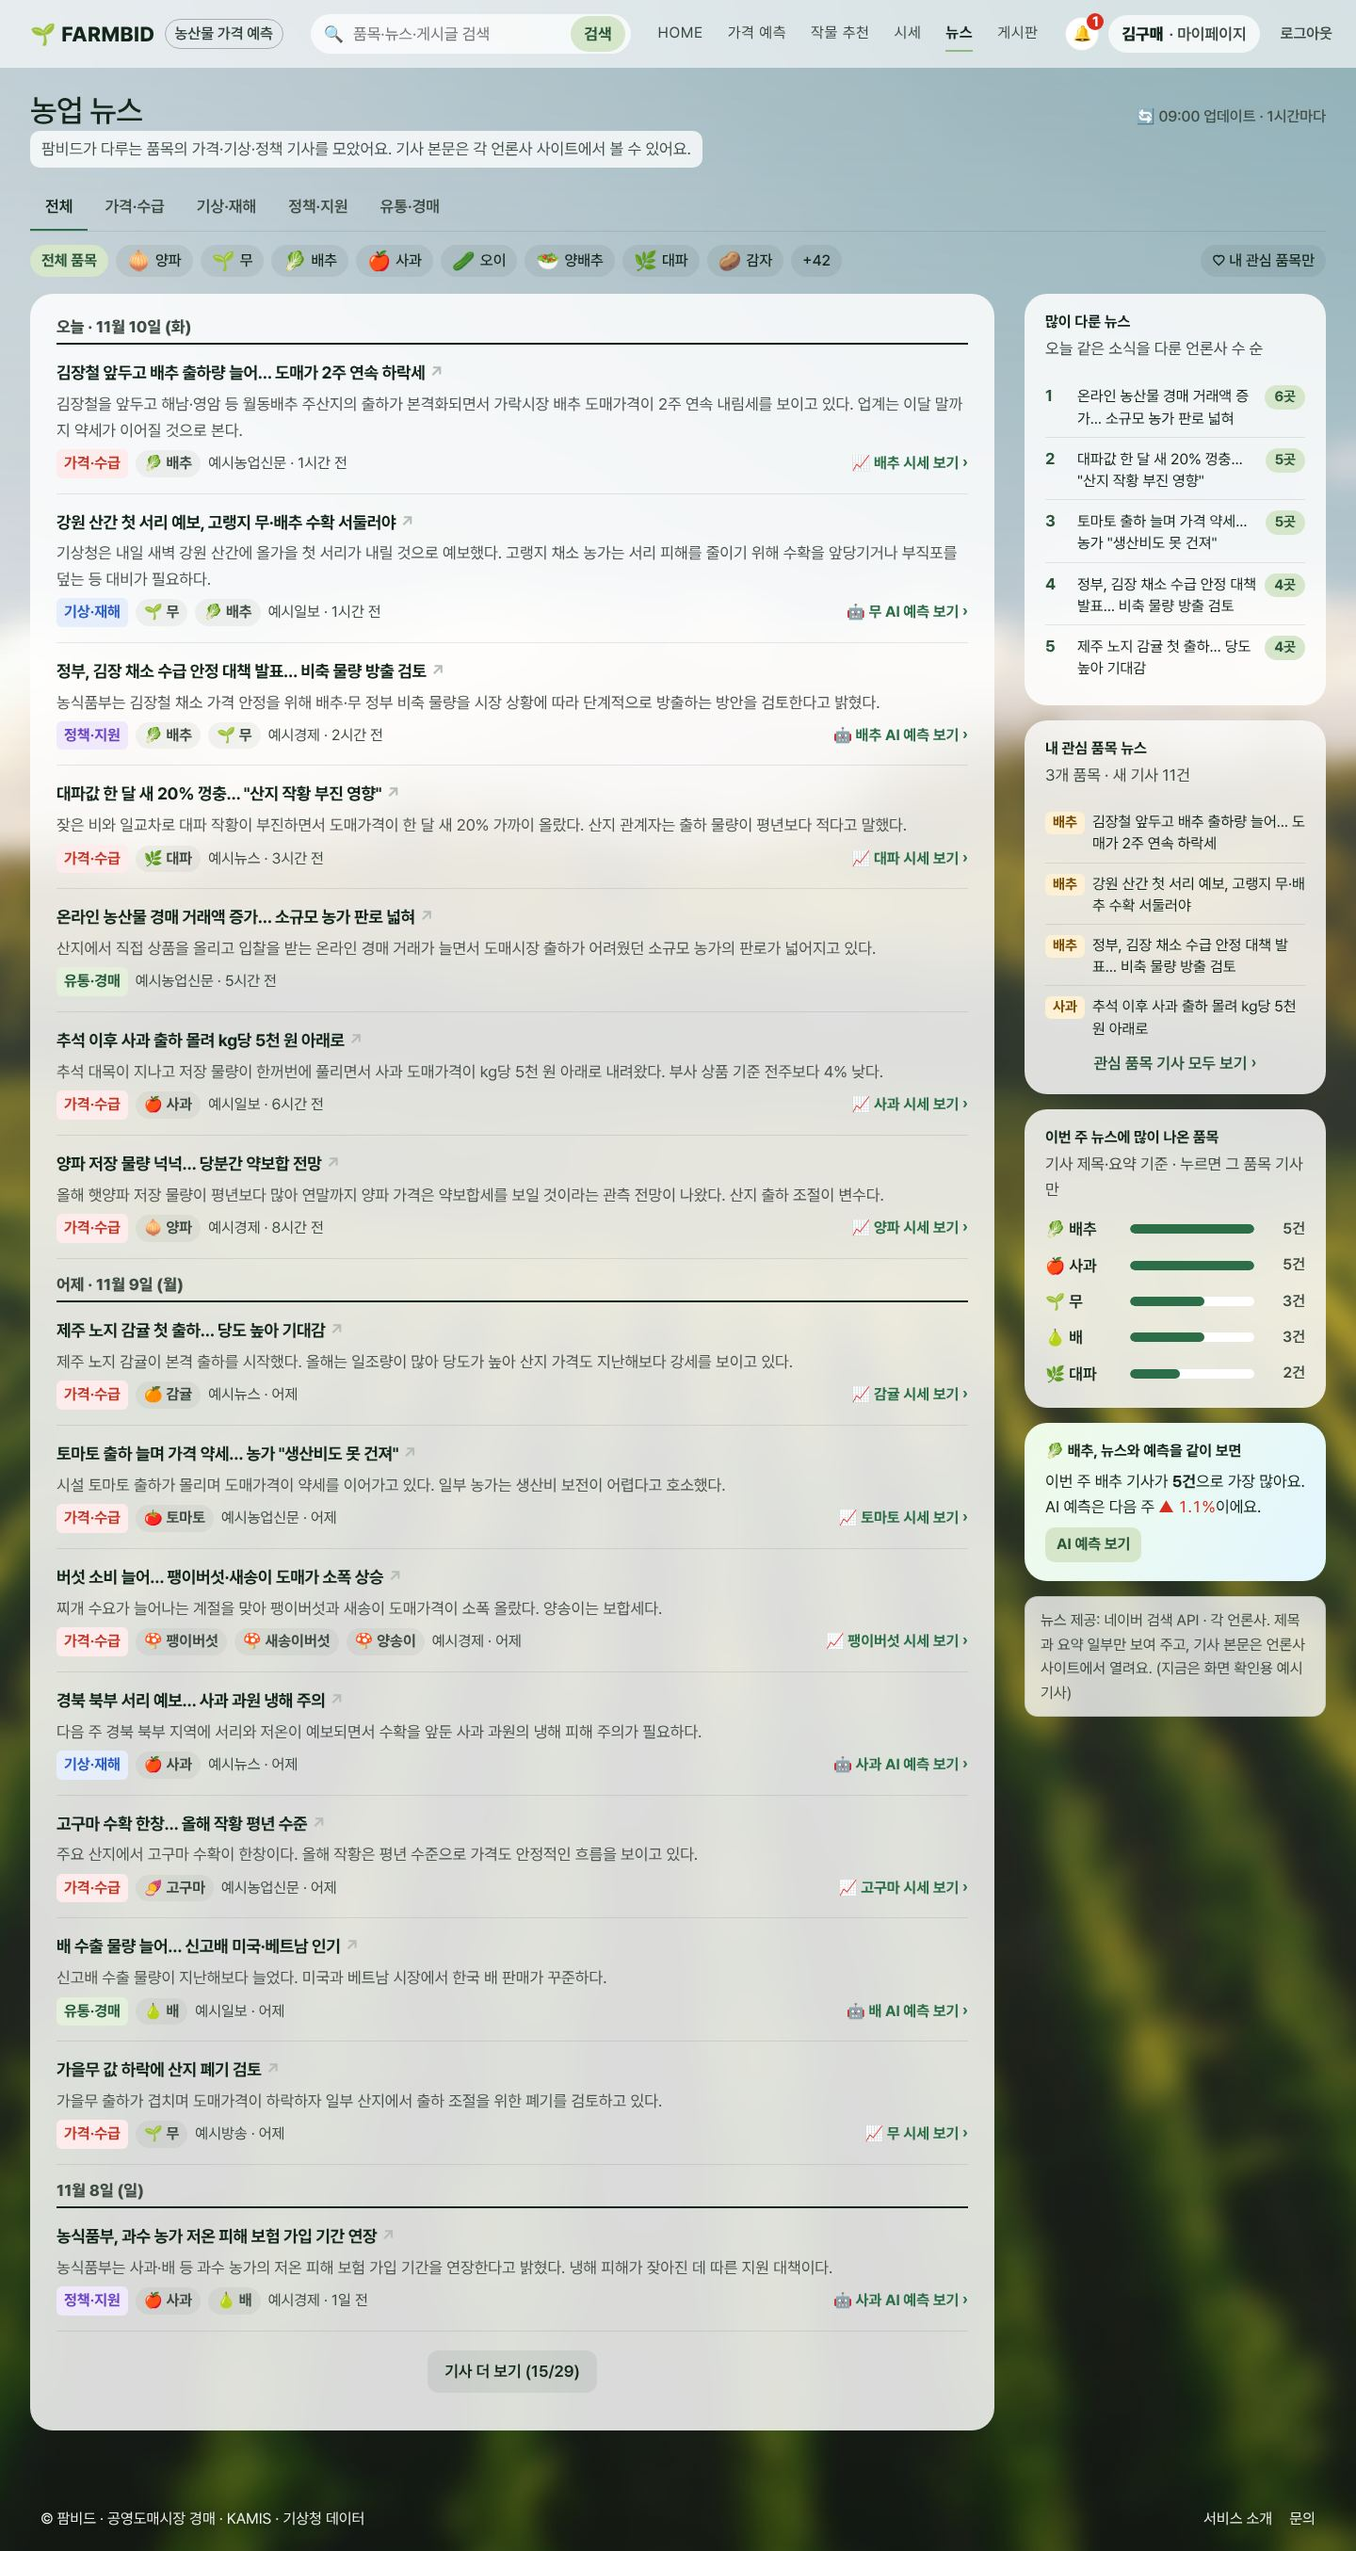
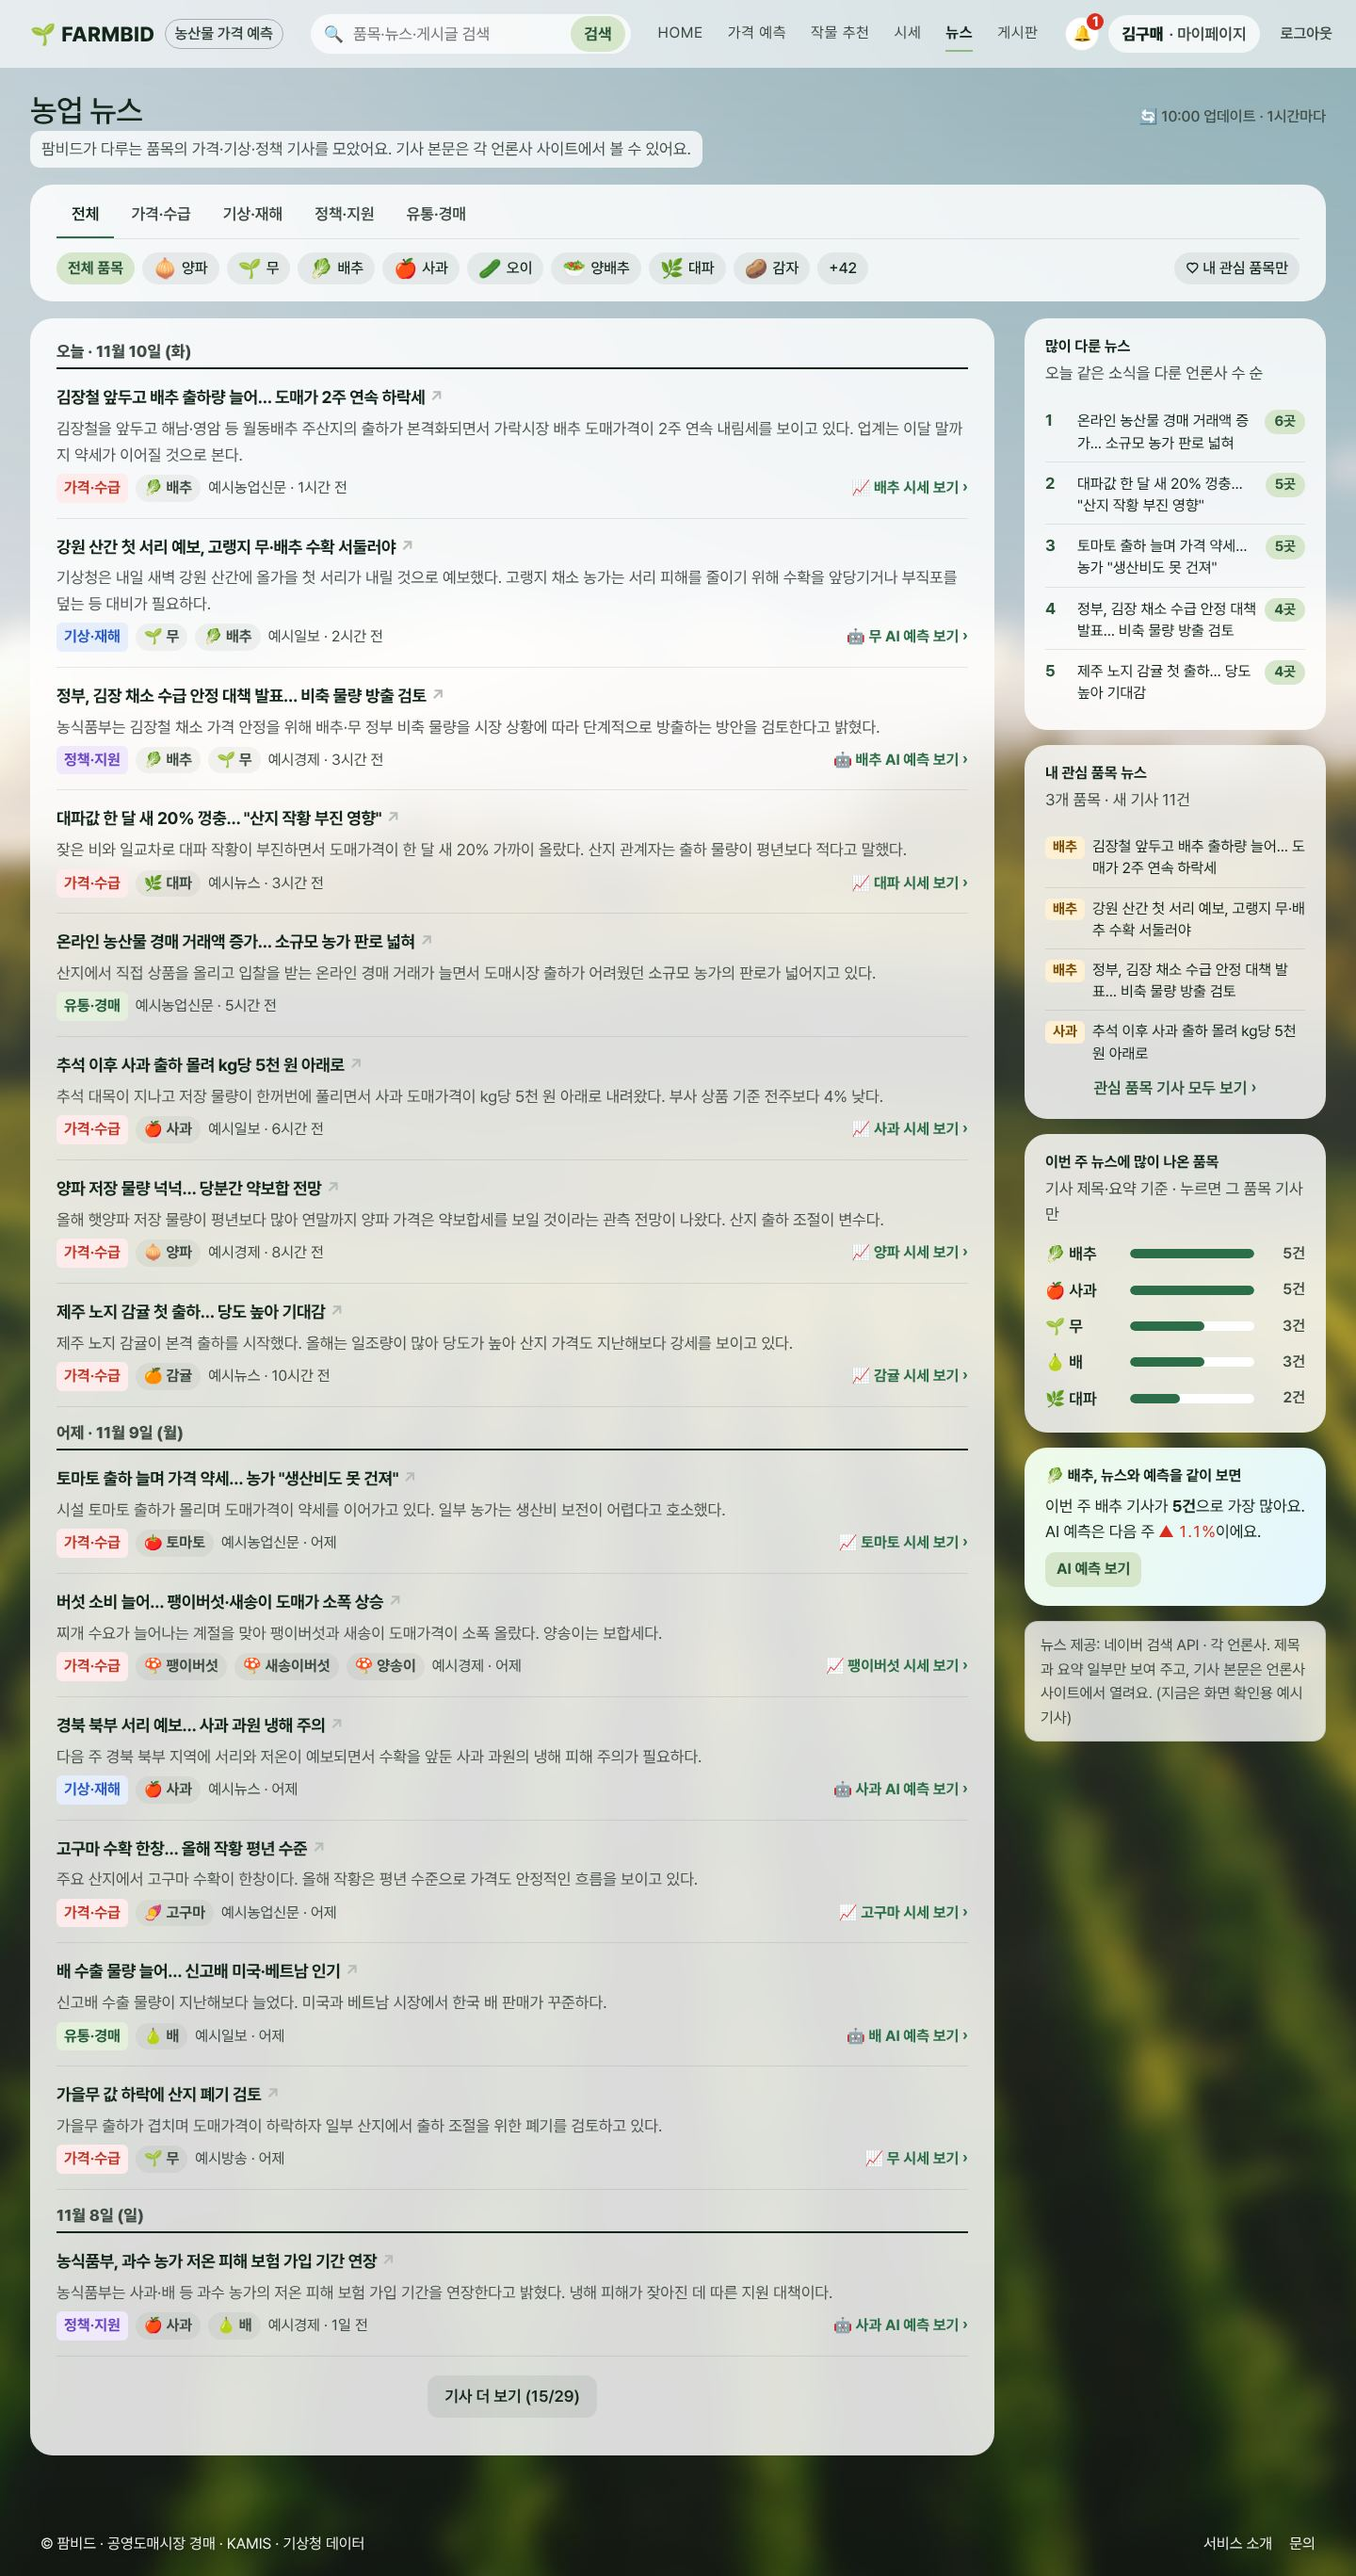
fix(frontend): 시세 조건 칸·반입 동향 요약·뉴스 분류 칸을 흰 유리 판 위에 — 사진 위에 투명하게 떠 안 읽히던 것
Claude-Session: https://claude.ai/code/session_01A5Bz2YFgwDEj3wEsMnATng

diff --git a/frontend/src/theme.css b/frontend/src/theme.css
@@ -326,3 +326,7 @@ select.input.mk-days { font-size: 16px; }
 .search-main, .search-empty { background: var(--glass); backdrop-filter: blur(24px); -webkit-backdrop-filter: blur(24px); border-radius: var(--radius); padding: clamp(18px, 2vw, 28px); }
 .search-main .card { background: var(--soft); backdrop-filter: none; -webkit-backdrop-filter: none; }
 .search-side .search-box { background: var(--glass); backdrop-filter: blur(24px); -webkit-backdrop-filter: blur(24px); border: 0; }
+/* 사진 위에 바로 놓이던 판 (11-11 고침): 시세 조건 칸 · 반입 동향 요약 · 뉴스 분류·품목 칸 */
+.mk-sum { background: var(--glass); backdrop-filter: blur(24px); -webkit-backdrop-filter: blur(24px); }
+.mk-filter { background: var(--glass); backdrop-filter: blur(24px); -webkit-backdrop-filter: blur(24px); border: 0; }
+.news-filters { background: var(--glass); backdrop-filter: blur(24px); -webkit-backdrop-filter: blur(24px); border-radius: var(--radius); padding: 8px clamp(18px, 2vw, 28px) 18px; }

diff --git a/docs/05_ui_spec.md b/docs/05_ui_spec.md
@@ -263,3 +263,4 @@ API 2-8 ~ 2-11
 | 2026-11-06 | 홈 두 카드가 5초마다 바뀜 — 가격 예측: 1주·1개월·3개월 × 오를·내릴 품목 6가지(가장 싼 날 파란 상자 추가), 작물 추천: 노지·시설·논·과수원(논은 다음 심는 때, 과수원은 수확철 예상 도매가). 부드럽게 바뀌는 효과 | |
 | 2026-11-07 | 시세 띠 삭제, 회원가입 약관 단계 삭제·닉네임·이메일/닉네임 중복 확인, 가격 예측·작물 추천 회원 전용, 검색 "시세" 탭(최근 8거래일 그래프), 가격 예측 도매시장 먼저(전국 평균 추가, 시장에서 거래 안 하는 품목 빠짐) | |
 | 2026-11-11 | **새 디자인(v17)** — 들판 사진 + 흰 유리 카드, 새 헤더·로그인 버튼 하나, 회원 화면은 로그인 후 돌아옴, 글씨 크게(최소 15px)·회색 진하게. 홈: 사진 첫 화면 + 흰 바탕이 덮는 오늘의 농업 정보(뉴스·날씨 나란히) + 서비스 소개. 가격 예측: 기준 날짜(1년 전까지)·4주 주별 예측·작년 같은 시기 선·출하 추천 시기. 작물 추천: 한 카드 입력·심을 날짜 1년·TOP3 카드(순수익/마진율 1위 강조)·작물 정보 검색 목록·12개월 가격. 뉴스: 많이 다룬 뉴스·내 관심 품목 뉴스. 마이페이지·서비스 소개 새 배치. 신고 기능 삭제, 마케팅 동의 없음. 캡처 교체 | |
+| 2026-11-11 | 시세 조건 칸 · 반입 동향 요약 · 뉴스 분류·품목 칸이 사진 위에 투명하게 떠 보이던 것 수정 (흰 유리 판). 캡처 `04_market` · `05_news` 교체 | |
